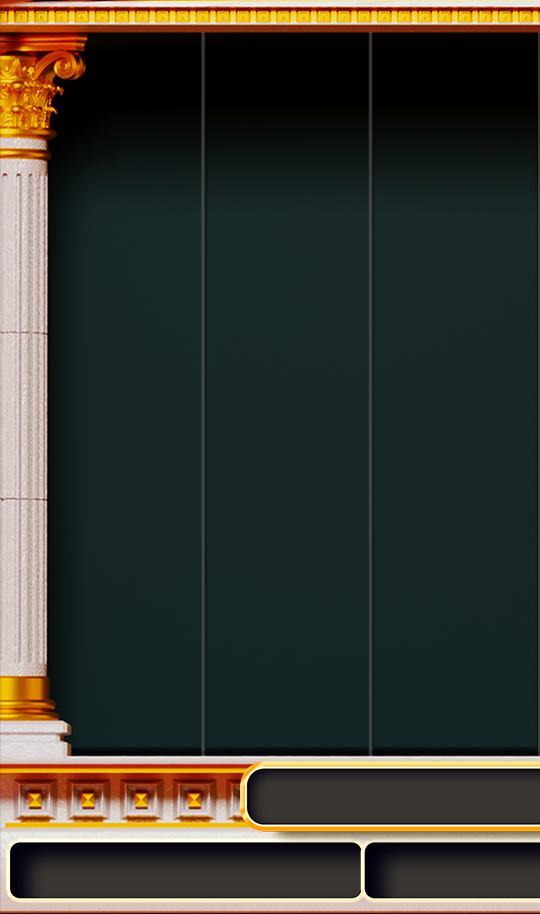
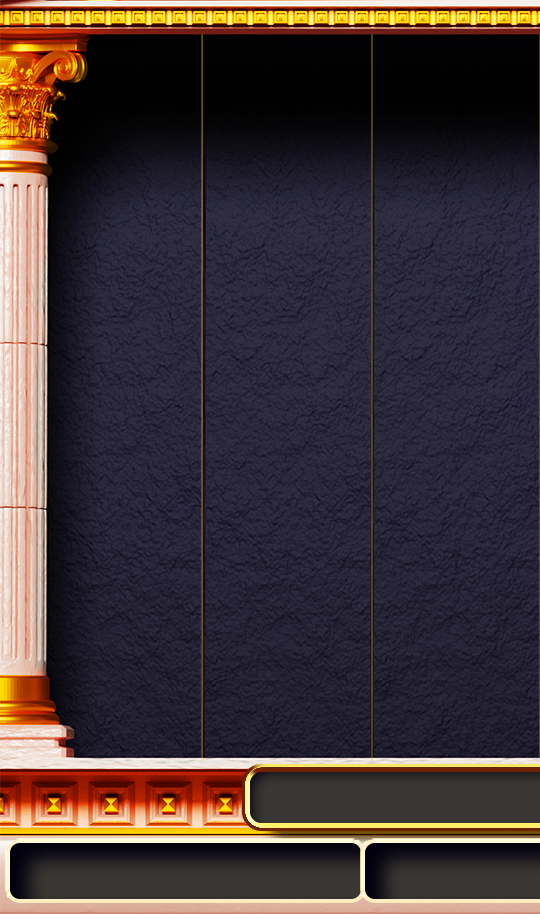
feat:因應美術調整

Changed region(s): [[0.0, 0.0, 1.0, 1.0]]

diff --git a/games/titans/views/main/GameScene.ts b/games/titans/views/main/GameScene.ts
@@ -60,10 +60,10 @@ export class GameScene extends PIXI.Container {
         });
         this.characterSpine.label = 'characterSpine';
         this.addChild(this.characterSpine);
-        this.characterSpine.position.set(630, 400);
+        this.characterSpine.position.set(610, 450);
+        this.characterSpine.scale.set(1.1);
         this.characterSpine.state.setAnimation(0, "Idle", true);
         this.characterSpine.skeleton.setSkinByName("Mg");
-        console.log('characterSpine',this.characterSpine);
         
         // 3. 載入屋頂圖片
         const roofTexture = PIXI.Texture.from(resourceManager.getResource('mg_frame_roof') as string);
@@ -76,15 +76,7 @@ export class GameScene extends PIXI.Container {
           this.roofSprite2.scale.x = -1;
           this.addChild(this.roofSprite2);
         }
-        // 4. 載入LOGO
-        const logoResource = resourceManager.getResource('game_logo_cnt');
-        if (logoResource) {
-          const frameTexture = PIXI.Texture.from(logoResource);
-          const frameSprite = new PIXI.Sprite(frameTexture);
-          frameSprite.position.set(426, 582);
-          this.addChild(frameSprite);
-        }
-        // 5. 載入框架圖片（疊加在背景上）
+        // 4. 載入框架圖片（疊加在背景上）
         const frameResource = resourceManager.getResource('mg_frame');
         if (frameResource) {
           const frameTexture = PIXI.Texture.from(frameResource);
@@ -95,6 +87,14 @@ export class GameScene extends PIXI.Container {
           this.frameSprite2.position.set(1080, 692);
           this.frameSprite2.scale.x = -1;
           this.addChild(this.frameSprite2);
+        }
+        // 5. 載入LOGO
+        const logoResource = resourceManager.getResource('game_logo_cnt');
+        if (logoResource) {
+          const frameTexture = PIXI.Texture.from(logoResource);
+          const frameSprite = new PIXI.Sprite(frameTexture);
+          frameSprite.position.set(426, 582);
+          this.addChild(frameSprite);
         }
         // 6. 載入資訊背景圖片
         const infoBgResource = resourceManager.getResource('fg_info_bg');
